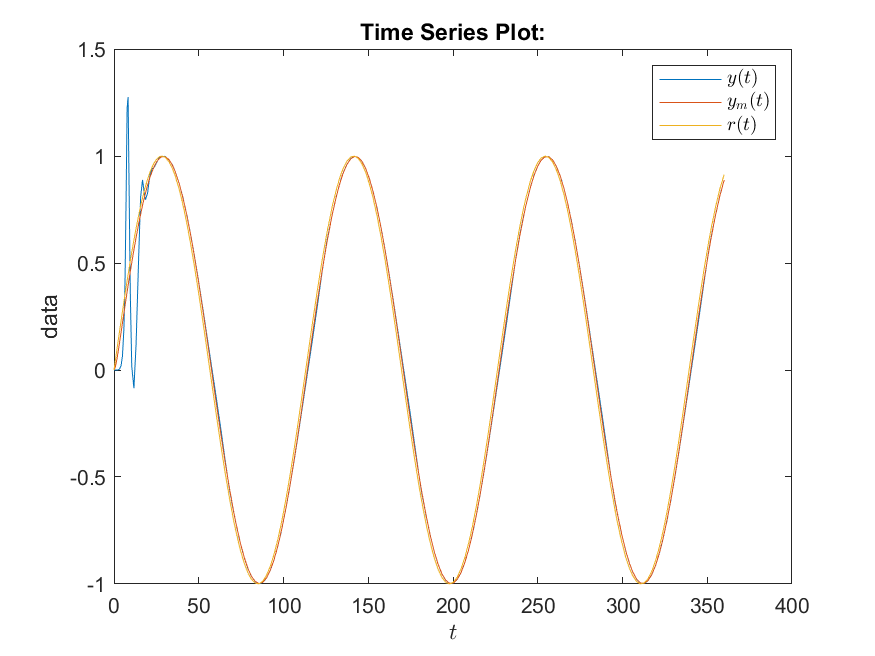
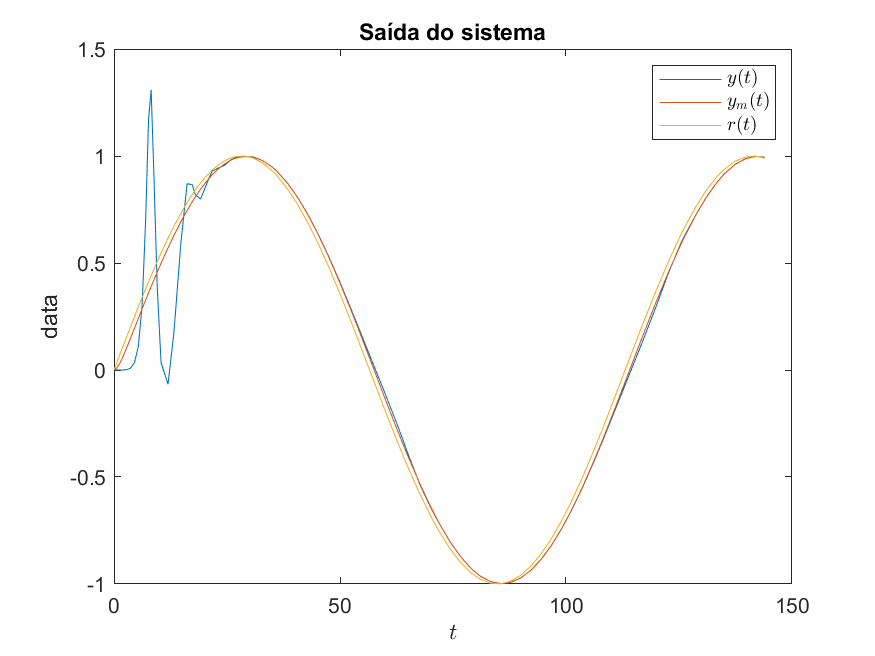
finished trabalho-1

diff --git a/trabalho-1/CAMR/controle_adap_script.m b/trabalho-1/CAMR/controle_adap_script.m
@@ -6,7 +6,7 @@ ref_pulse_T = 18;
 
 ref_sin_freq = 1/ref_pulse_T;
 
-switch_ref = 1;
+switch_ref = 0;
 ref = ["pulse" "sine"];
 ref = ref(switch_ref+1);
 
@@ -40,7 +40,9 @@ hold on
 plot(out.r)
 legend({'$y(t)$','$y_m(t)$','$r(t)$'},'Interpreter','latex')
 xlabel({'$t$'},'Interpreter','latex')
+title('Saída do sistema');
 saveas(gcf,"imgs/yymr_"+ref+".png");
+
 % k and theta
 figure;
 plot(out.K)
@@ -50,5 +52,13 @@ yline(k_opt,'-','$K^*$','Interpreter','latex');
 yline(theta_opt,'-','$\theta^*$','Interpreter','latex');
 legend({'$K$','$\theta$'},'Interpreter','latex');
 xlabel({'$t$'},'Interpreter','latex');
+title('Ganhos adaptativos');
 saveas(gcf,"imgs/ktheta_"+ref+".png");
+
+% v
+figure;
+plot(out.v);
+xlabel({'$t$'},'Interpreter','latex');
+title('Sinal de controle');
+saveas(gcf,"imgs/v_"+ref+".png");
 
